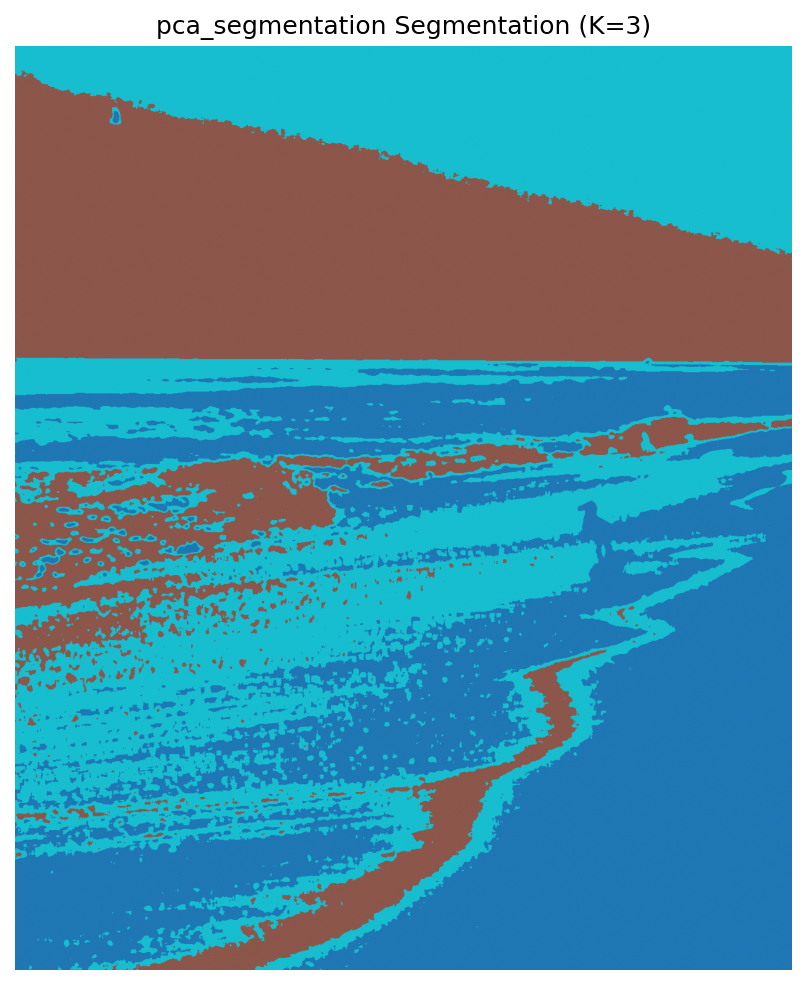
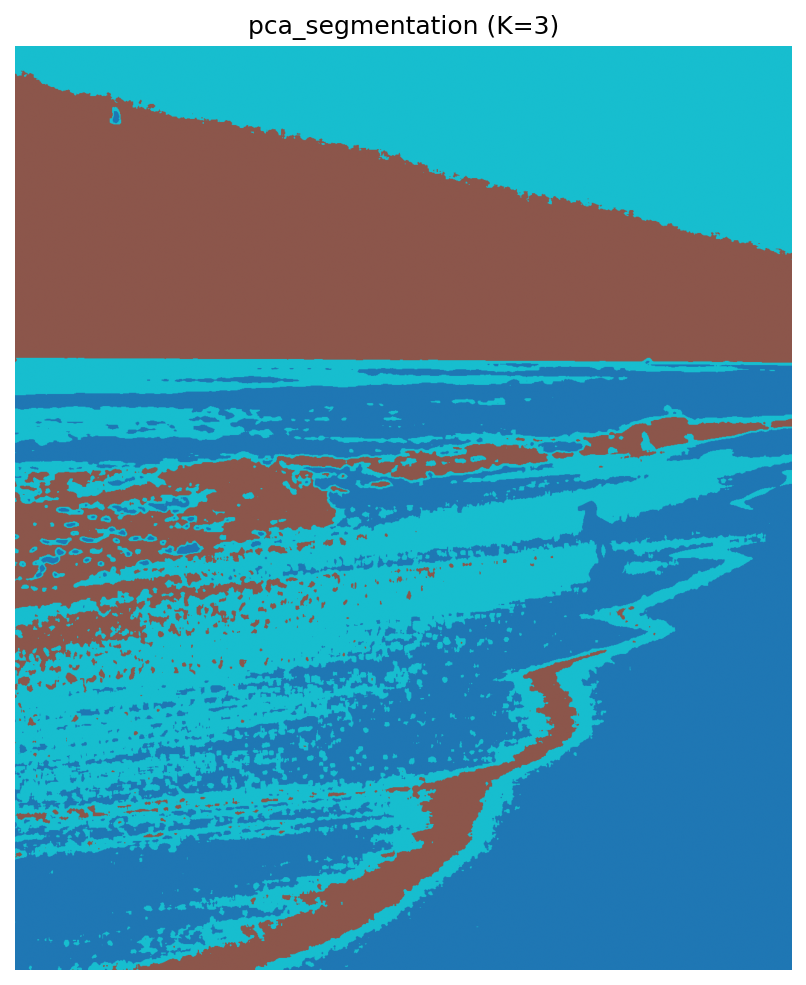
fixed plot headlines

Changed region(s): [[0.2792, 0.0, 0.8065, 0.0609], [0.1861, 0.0, 0.2481, 0.0305]]

diff --git a/Assignment_6/Solution.py b/Assignment_6/Solution.py
@@ -484,7 +484,7 @@ def save_segmentation(segmentation, output_dir, prefix="segmentation"):
     os.makedirs(output_dir, exist_ok=True)
     plt.figure(figsize=(10, 8))
     plt.imshow(segmentation, cmap='tab10')
-    plt.title(f"{prefix} Segmentation (K=3)")
+    plt.title(f"{prefix} (K=3)")
     plt.axis('off')
     plt.savefig(os.path.join(output_dir, f"3_3{prefix}.png"), dpi=150, bbox_inches ='tight')
     plt.close()
@@ -506,7 +506,7 @@ def part_3_3():
     njet_X = responses_to_feature_matrix(njet_responses) # convert to feature matrix from dictionary
     njet_X_reduced = reduce_features(njet_X, n_components=3) #reduce features using pca
     njet_segmented = kmeans_segment(njet_X_reduced, image.shape, n_clusters=3) #segment
-    save_segmentation(njet_segmented, "output", prefix="njet_segmentation")# save it
+    save_segmentation(njet_segmented, "output", prefix="N-jet_segmentation")# save it
 
 
 
